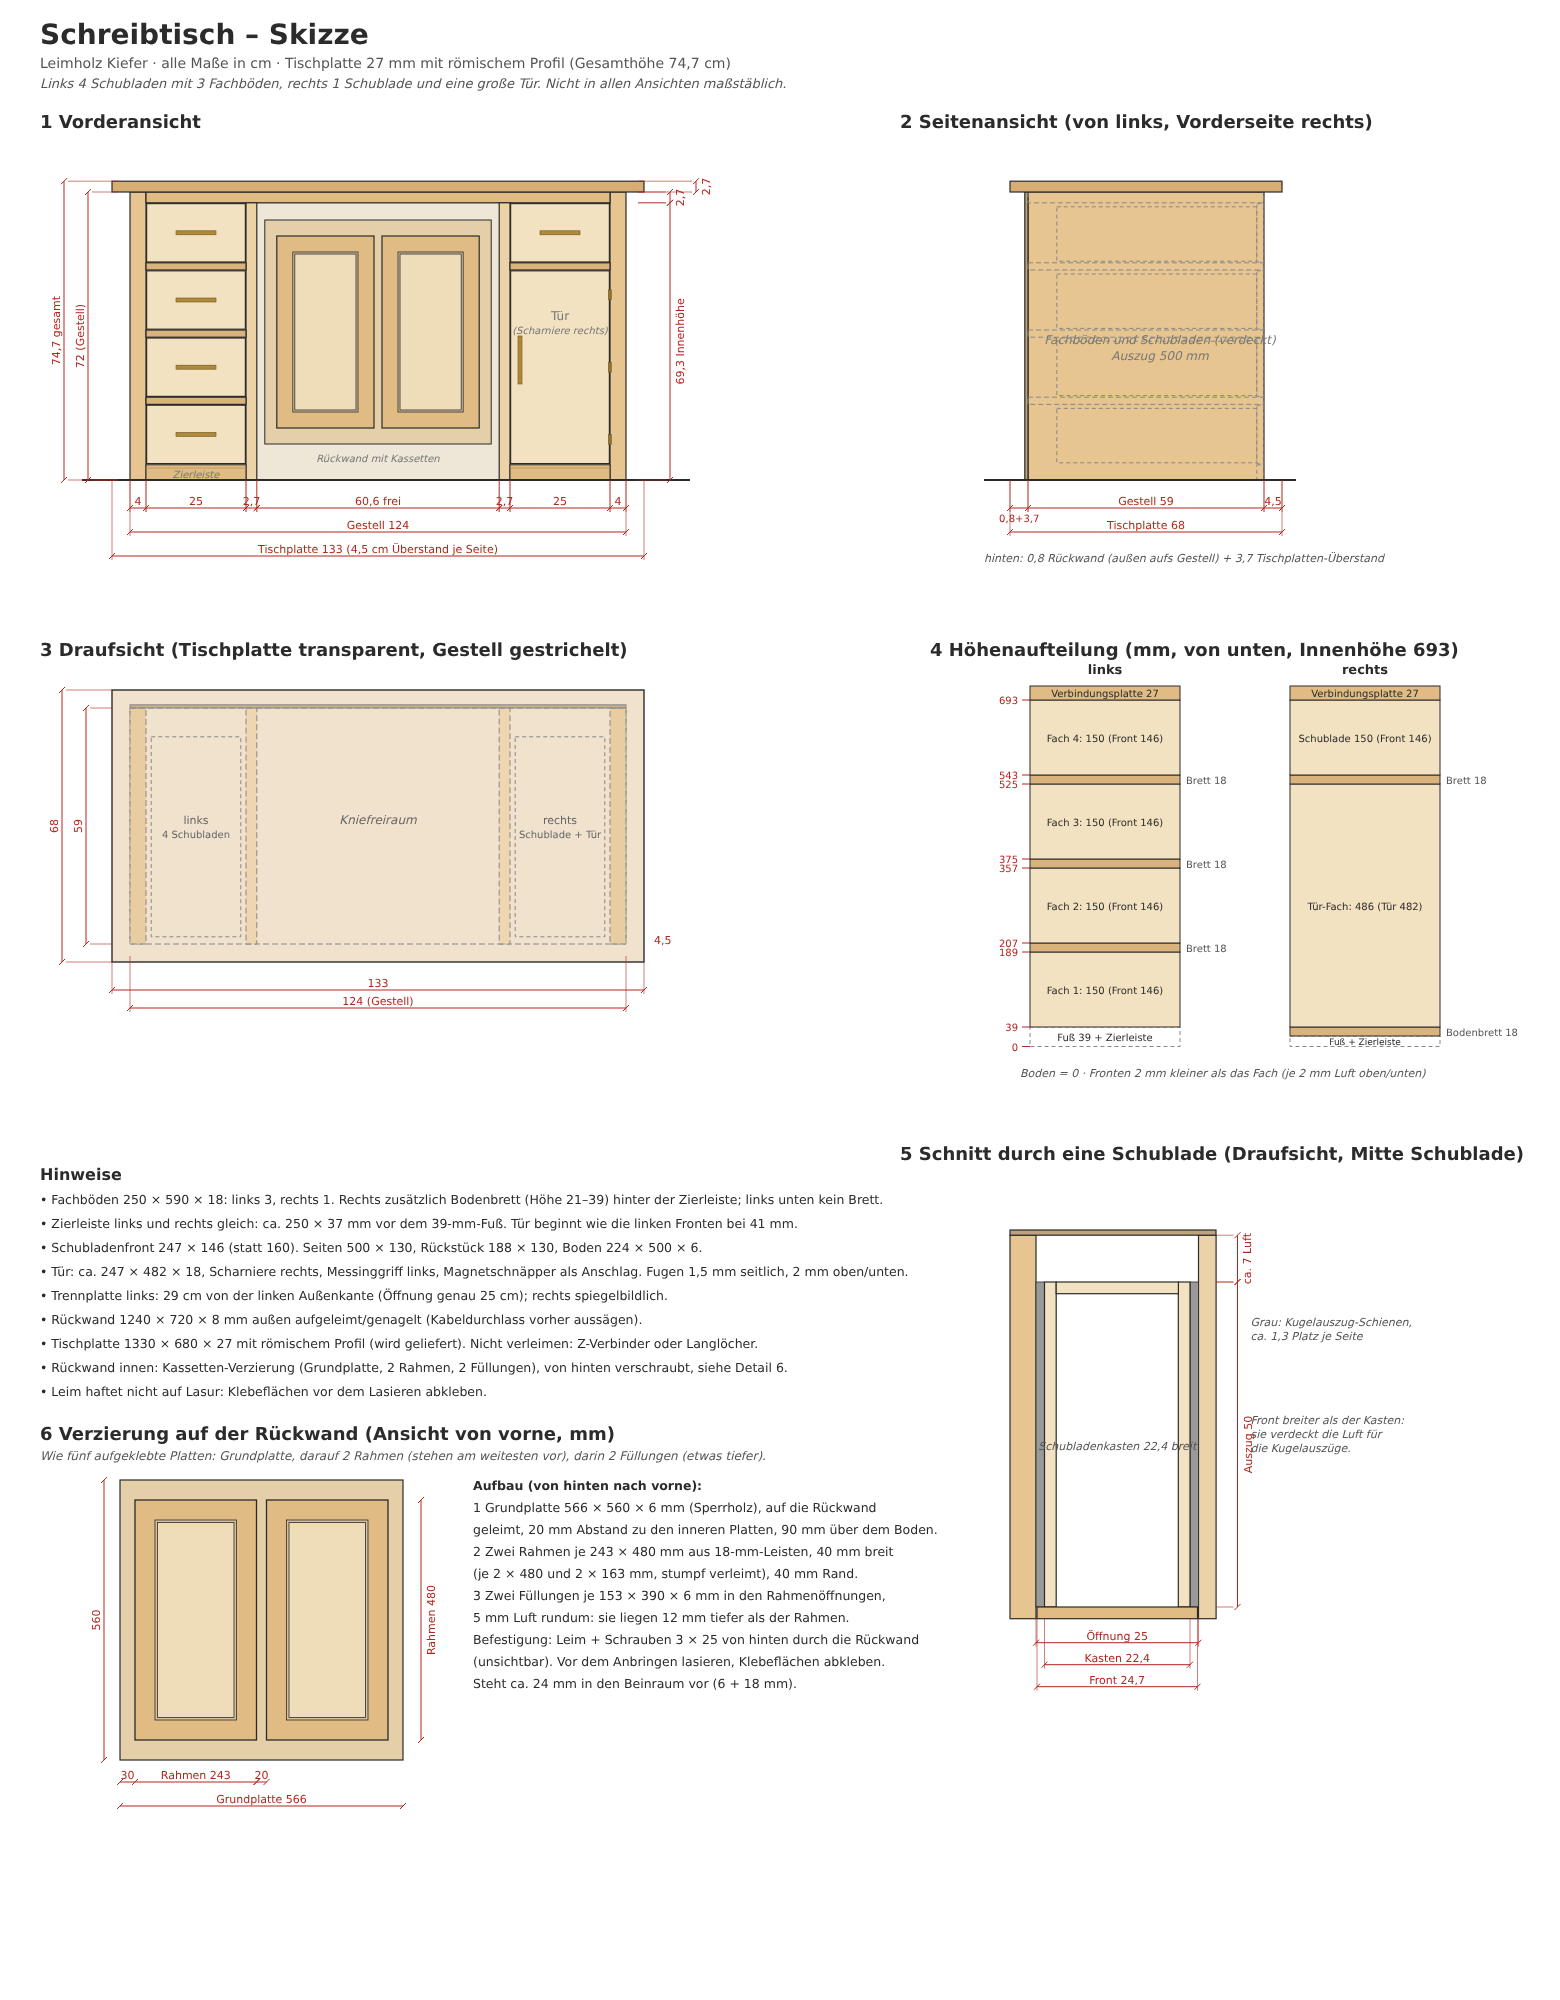
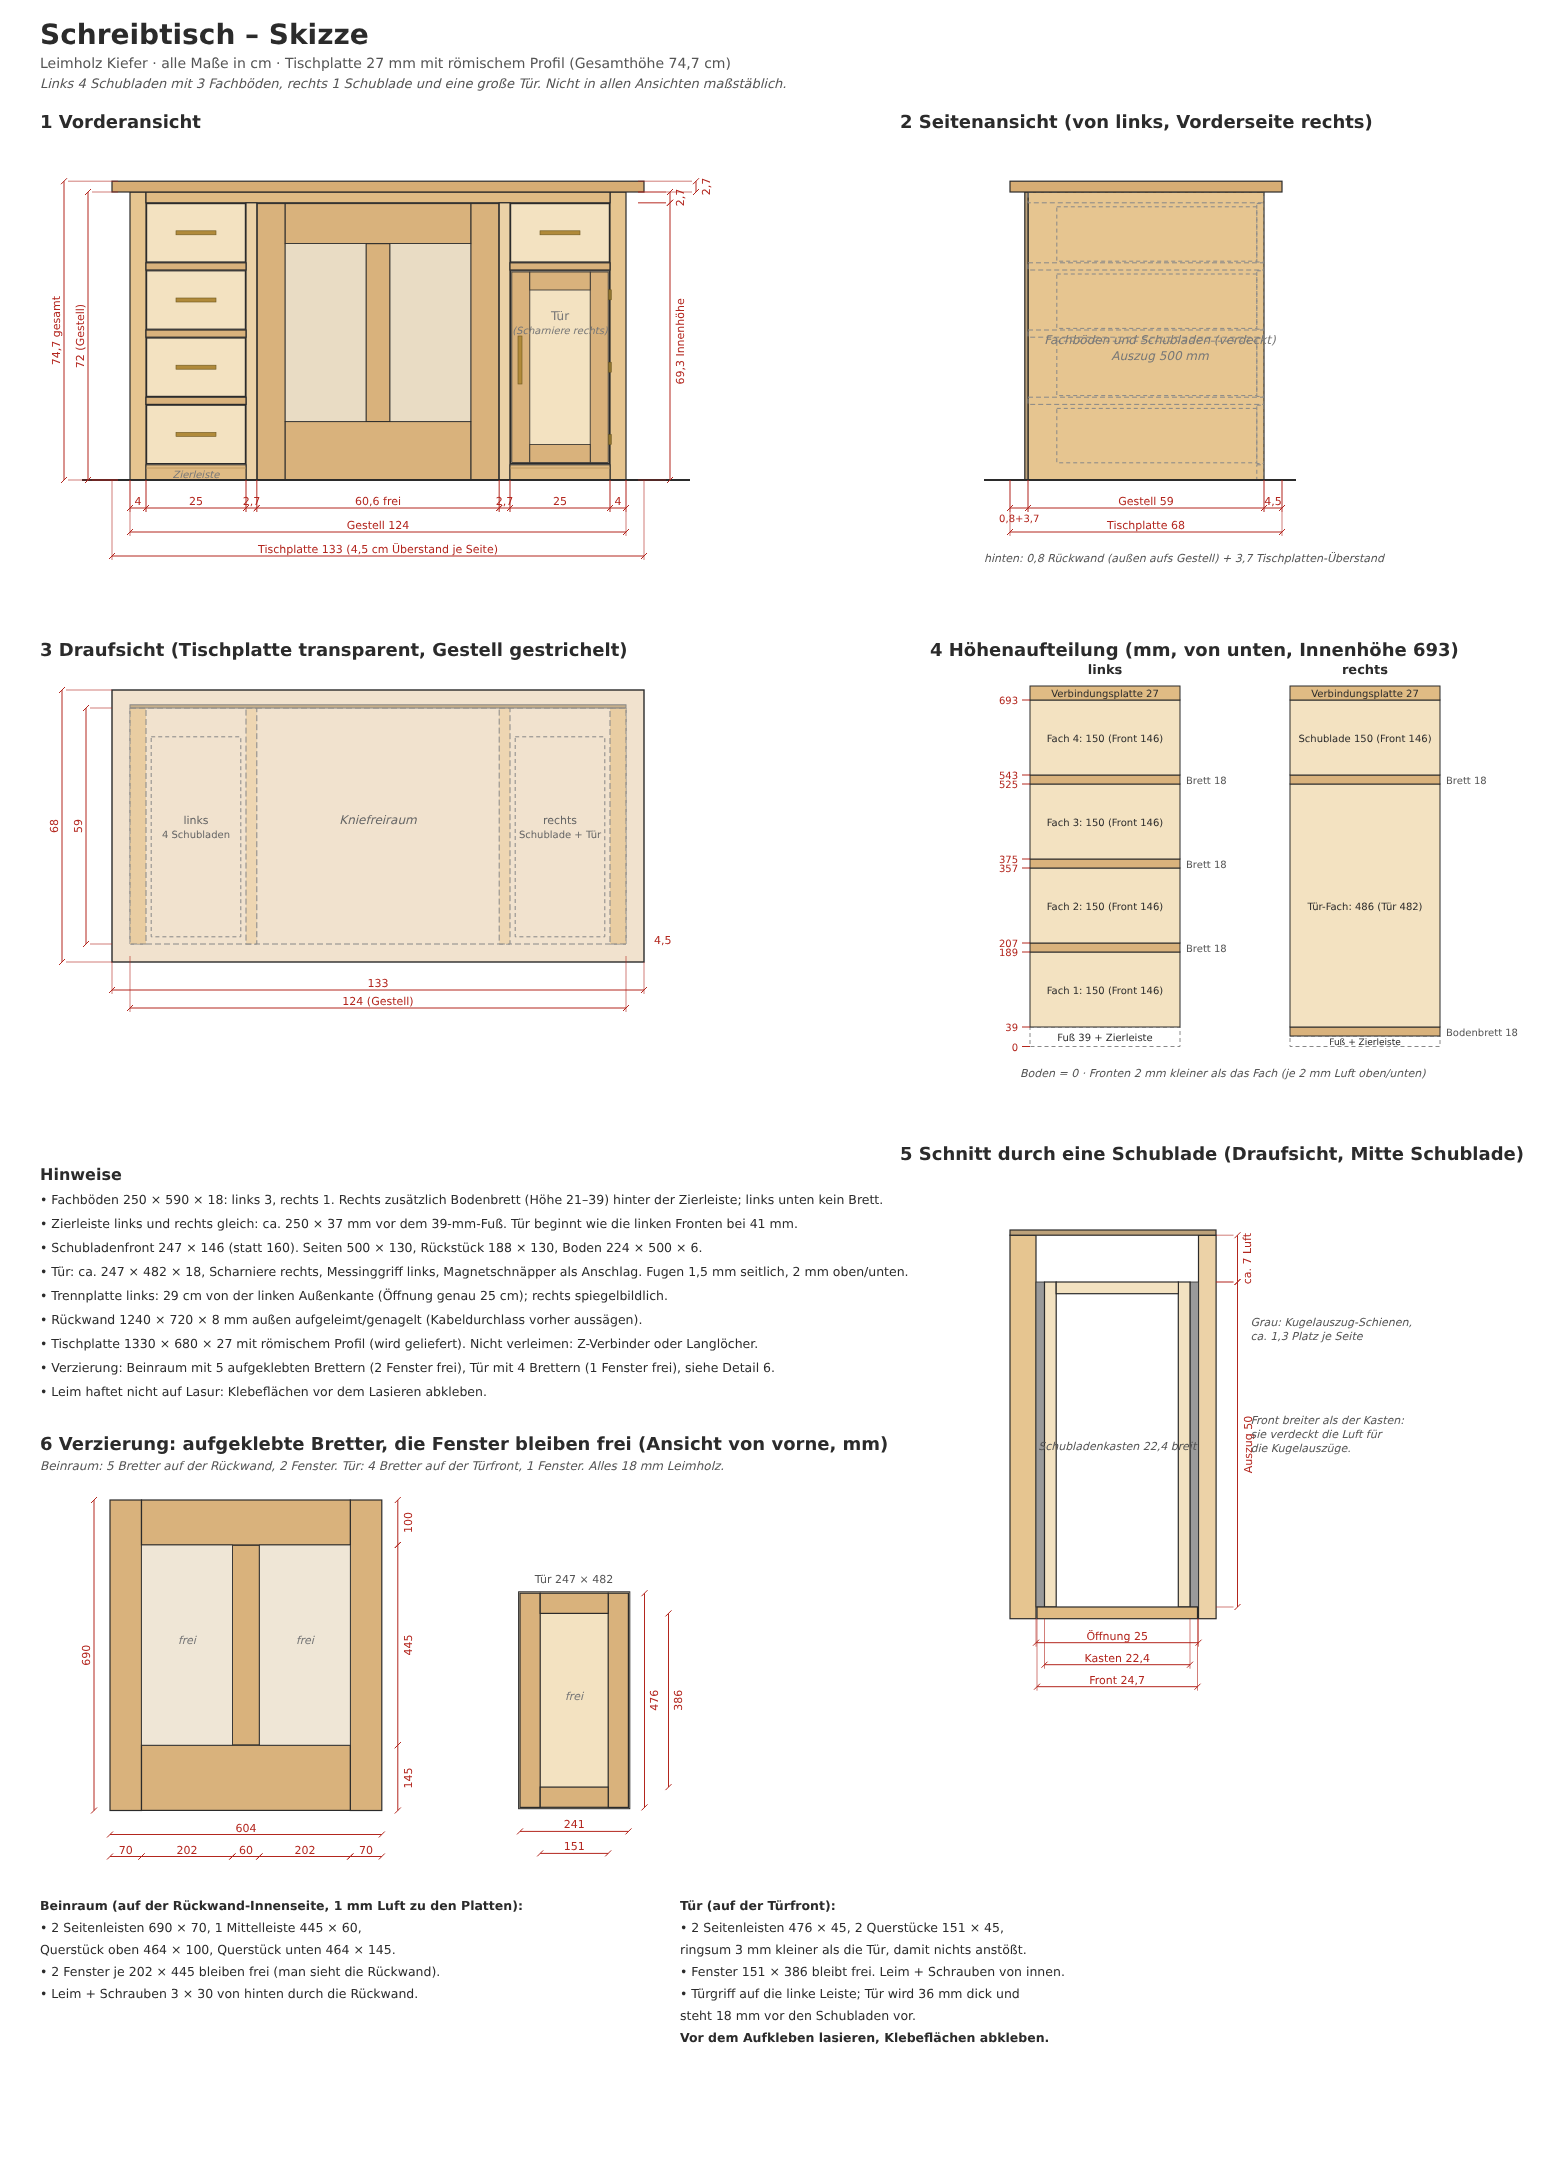
Schreibtisch: Verzierung als aufgeklebte Bretter (Beinraum 2 Fenster, Tür 1 Fenster)
Claude-Session: https://claude.ai/code/session_01XaGsoAajkMh8CfcQtnFFv4

diff --git a/schreibtisch/plan.md b/schreibtisch/plan.md
@@ -64,22 +64,31 @@ Annahme: Kugelauszüge 500 mm mit ca. 12,7 mm Platz je Seite (Datenblatt prüfen
 | Rückstück | 1 | 188 × 130 | 18 | Leimholz Kiefer |
 | Boden | 1 | 224 × 500 | 6 | Sperrholz |
 
-## 4a. Verzierung auf der Rückwand (Innenseite im Beinraum)
+## 4a. Verzierung (aufgeklebte Bretter, Fenster bleiben frei)
 
-Zwei „Fenster“ im Kassetten-Stil, wie fünf aufgeklebte Platten (Detail 6 in `skizze.png`):
+Detail 6 in `skizze.png`. Alles 18 mm Leimholz Kiefer, vorher lasieren, Klebeflächen abkleben.
 
-| Teil | Anz. | Maß | Material |
-|---|---|---|---|
-| Grundplatte | 1 | 566 × 560 × 6 | Sperrholz (wie Schubladenböden) |
-| Rahmenleisten lang | 4 | 480 × 40 × 18 | Leimholz Kiefer |
-| Rahmenleisten kurz | 4 | 163 × 40 × 18 | Leimholz Kiefer |
-| Füllung | 2 | 153 × 390 × 6 | Sperrholz |
+**Beinraum** (auf der Innenseite der Rückwand, zwischen den inneren Platten, je 1 mm Luft): 5 Bretter, 2 Fenster bleiben frei.
 
-- Grundplatte mittig im Beinraum, 20 mm Abstand zu den inneren Platten, Unterkante 90 mm über dem Boden.
-- Rahmen je 243 × 480 (Leisten stumpf verleimt), 30 mm vom Rand der Grundplatte, 20 mm Abstand zwischen den Rahmen, 40 mm Rand oben/unten.
-- Füllungen in den Rahmenöffnungen mit 5 mm Luft rundum, sie liegen 12 mm tiefer als der Rahmen.
-- Befestigung: Leim + Schrauben 3 × 25 von hinten durch die Rückwand (unsichtbar). Vorher lasieren, Klebeflächen abkleben, vor dem Anbringen der Rückwand montieren.
-- Leisten aus 1 Brett 2000 × 200 × 18: 4 Streifen à 40 mm längs schneiden lassen, dann auf 480 und 163 kürzen.
+| Teil | Anz. | Maß |
+|---|---|---|
+| Seitenleiste | 2 | 690 × 70 |
+| Mittelleiste | 1 | 445 × 60 |
+| Querstück oben | 1 | 464 × 100 |
+| Querstück unten | 1 | 464 × 145 |
+
+Fenster je 202 × 445 (man sieht dort die Rückwand, 18 mm tiefer). Gesamtfläche 604 × 690, Unterkante 1 mm über dem Boden. Leim + Schrauben 3 × 30 von hinten durch die Rückwand (unsichtbar). Der Beinraum wird dadurch 18 mm weniger tief.
+
+**Tür** (auf der Türfront): 4 Bretter, 1 Fenster in der Mitte bleibt frei.
+
+| Teil | Anz. | Maß |
+|---|---|---|
+| Seitenleiste | 2 | 476 × 45 |
+| Querstück | 2 | 151 × 45 |
+
+Ringsum 3 mm kleiner als die Tür (241 × 476), damit beim Öffnen nichts anstößt. Fenster 151 × 386. Leim + kurze Schrauben von der Türinnenseite. Die Tür wird dadurch 36 mm dick und steht 18 mm vor den Schubladenfronten vor; der Griff sitzt auf der linken Leiste.
+
+Zuschnitt (Bauhaus): 1 × 2000×200 (Seitenleisten 690 × 70 und Mittelleiste 445 × 60), 1 × 800×250 (Querstücke 464 × 100 und 464 × 145), 1 × 800×200 (Tür: 2 × 476 × 45, 2 × 151 × 45).
 
 ## 5. Dübelplan
 
@@ -134,12 +143,12 @@ Preise von dir: Dübelset 30 €, Messinggriffe 7 € das Stück, 4 Paar Kugelau
 | 3 Scharniere + Magnetschnäpper | 10–25 € | Schätzung |
 | 27-mm-Holz: Verbindungsplatte + 2 Trennplatten (1,68 m² × 84 €/m²) | ca. 141 € | Beleg |
 | Tischplatte 1330 × 680 × 27 mit Profil (Lieferant) | Preis fehlt | |
-| 18-mm-Bretter (2,8 m²) + 1 × 2000×200 für die Kassettenrahmen | ca. 80 € | nur 2000×200 belegt, Rest nach Fläche (25 €/m²) |
+| 18-mm-Bretter (2,8 m²) + Bretter für die Verzierung (2000×200, 800×250, 800×200) | ca. 89 € | nur 2000×200 belegt, Rest nach Fläche (25 €/m²) |
 | Lasur Nussbaum (2,0–2,8 l) | 57–80 € | Beleg + Annahme Deckvermögen |
 | Sperrholz 8 mm (Rückwand) und 6 mm (Böden) | 28–55 € | Schätzung |
 | Klarlack | 10–25 € | Schätzung |
 | Zubehör (Spanngurte, Leim, 6×30-Dübel, Schleifpapier, Z-Verbinder, Pinsel) | 45–73 € | Schätzung |
-| **Zwischensumme ohne Tischplatte und 40-mm-Holz** | **ca. 490–600 €** | |
+| **Zwischensumme ohne Tischplatte und 40-mm-Holz** | **ca. 495–605 €** | |
 | 40-mm-Holz (0,96 m², Preis fehlt; bei 120 €/m² ca. 115 €) | offen | Annahme |
 
 Option innere Trennplatten 40 statt 27 mm: ca. 75 € mehr (bei 120 €/m² für 40 mm, Annahme), Kniefreiraum 580 statt 606 mm. Vergleichsbild: `vergleich_trennplatten_27_40.png`.
@@ -149,7 +158,7 @@ Option innere Trennplatten 40 statt 27 mm: ca. 75 € mehr (bei 120 €/m² für
 - Innere Platten (Verbindungsplatte, senkrechte Trennplatten): 27 mm – entschieden.
 - Tischplatte: Lieferant und Preis (27 oder 28 mm; bei 28 mm wird die Höhe 748).
 - Zierleiste: Form noch offen (sitzt zwischen den Platten, höchstens 39 mm hoch).
-- Verzierung: Lage und Maße bestätigen.
+- Verzierung: Maße bestätigen (Beinraum 5 Bretter, Tür 4 Bretter).
 - Preis 40-mm-Holz, Sperrholz, Klarlack.
 - Griff- und Scharniermodell (Aufschlag- oder Topfscharniere?).
 - Plattenformate und Anzahl kostenloser Schnitte beim Bauhaus.
